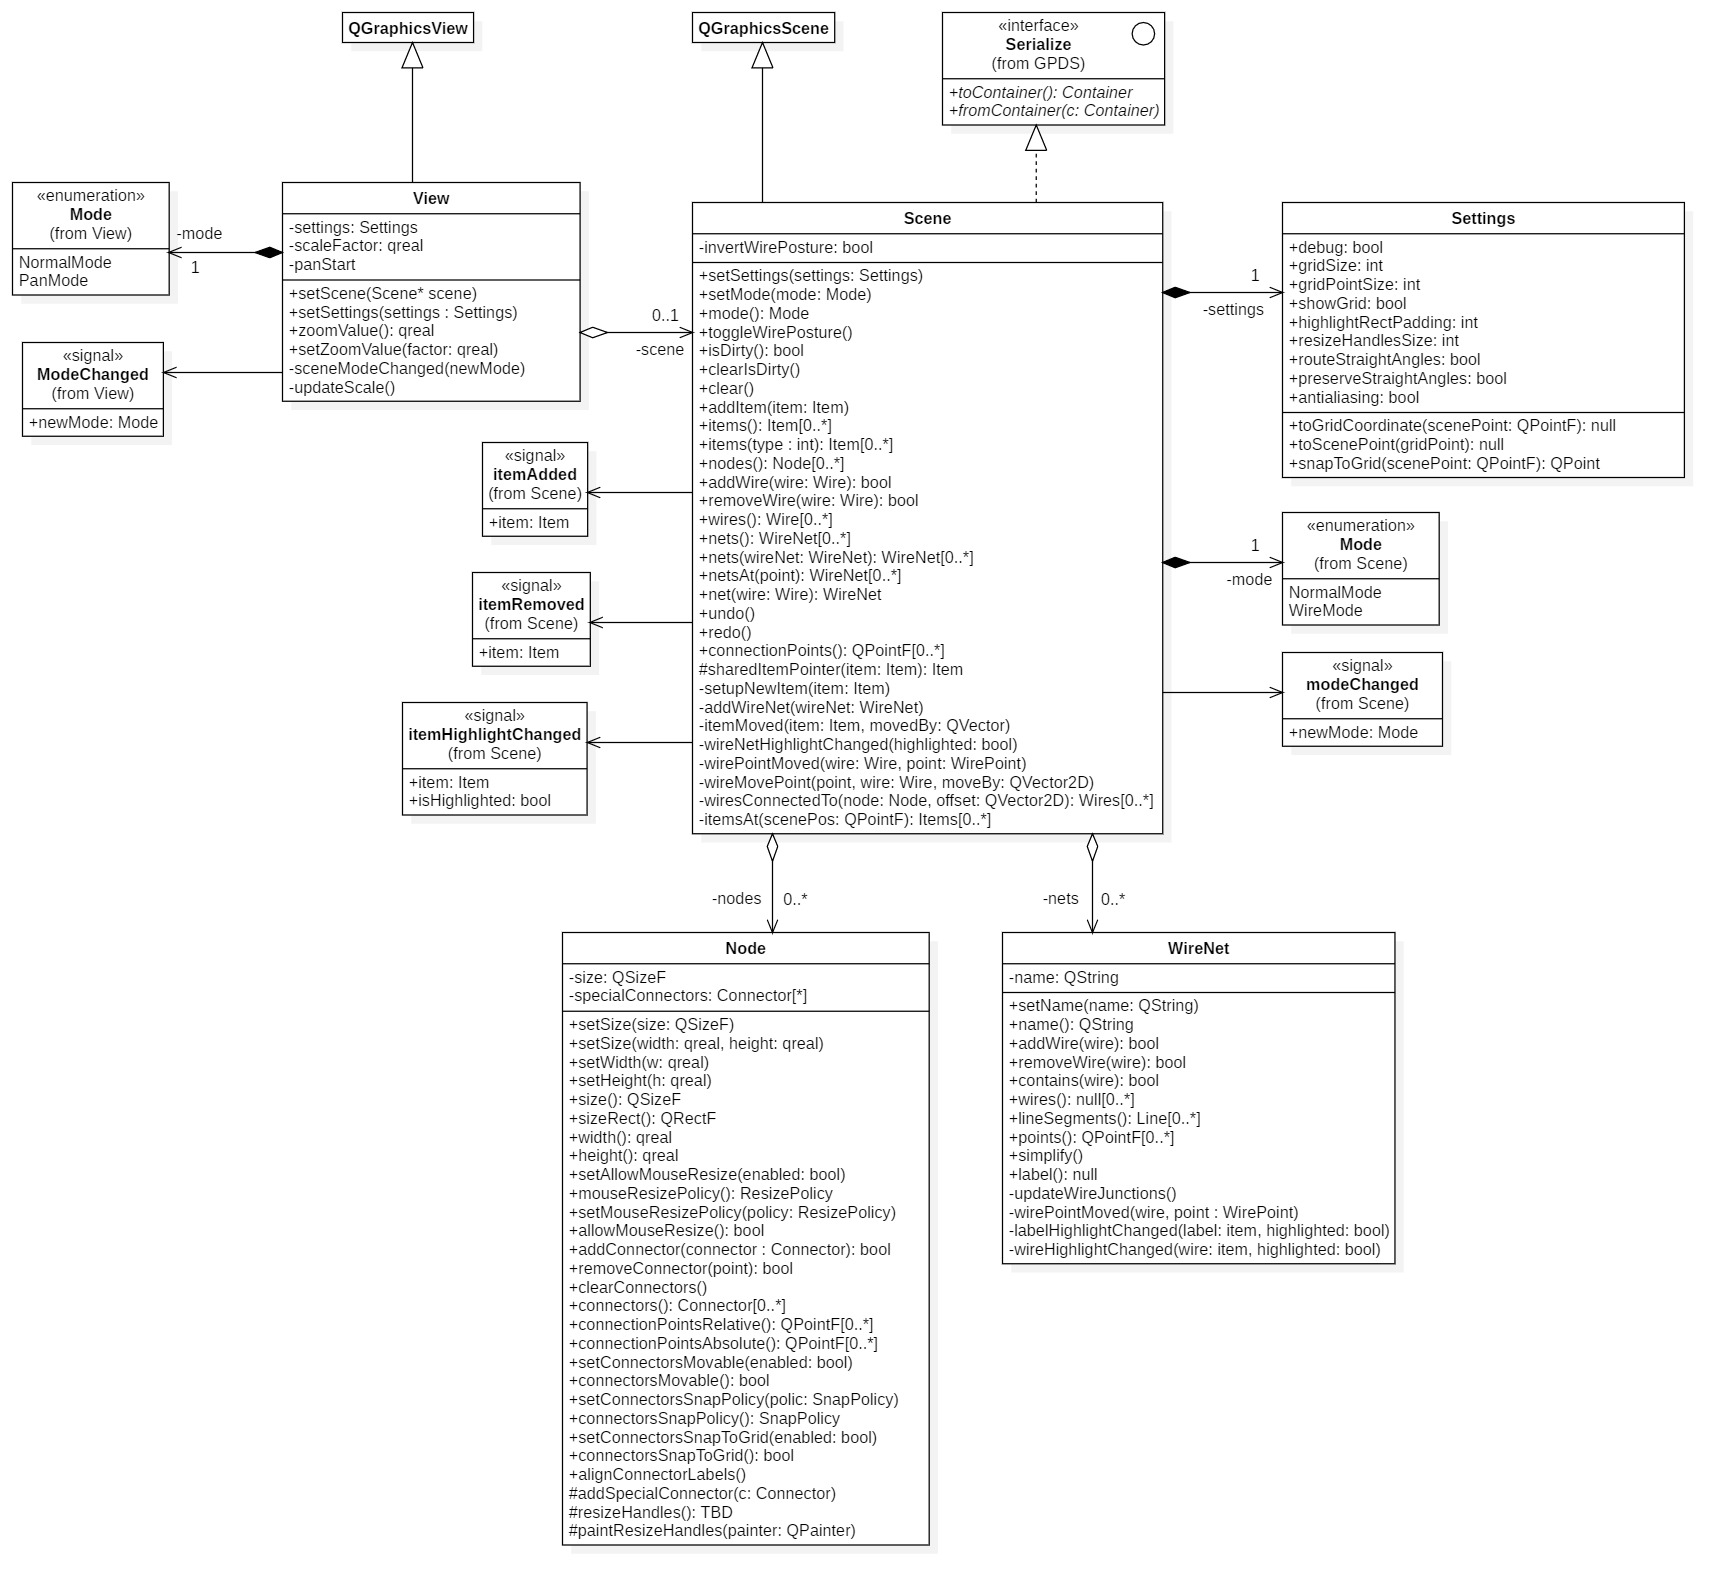
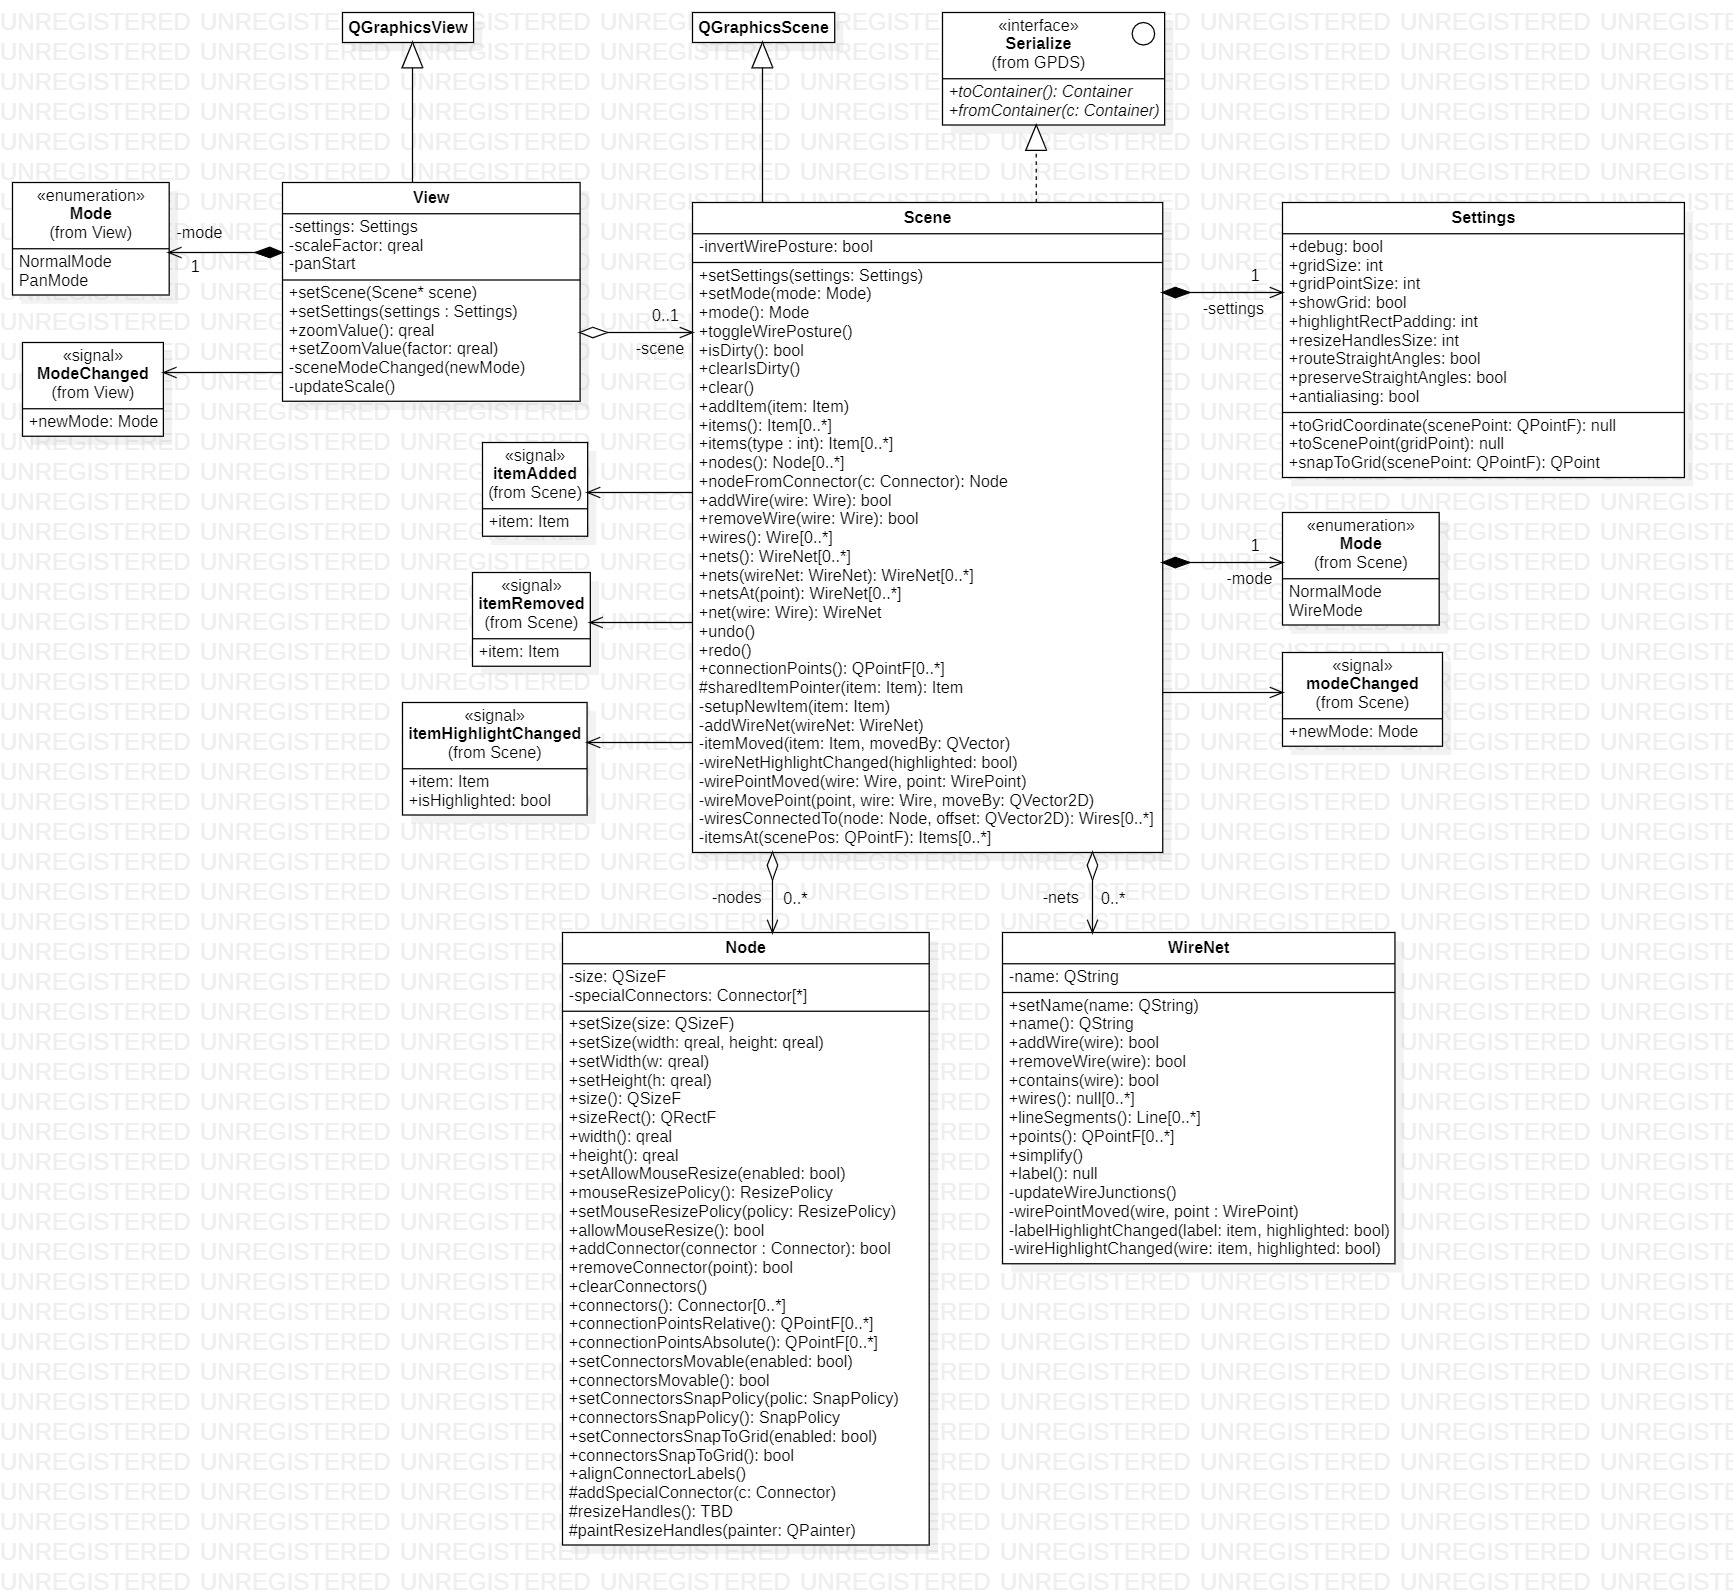
Add Scene::nodeFromConnector()

diff --git a/qschematic/scene.cpp b/qschematic/scene.cpp
@@ -436,6 +436,20 @@ QList<std::shared_ptr<Node>> Scene::nodes() const
     return nodes;
 }
 
+std::shared_ptr<Node> Scene::nodeFromConnector(const QSchematic::Connector& connector) const
+{
+    for (auto node : nodes()) {
+        const auto& connectors = node->connectors();
+        auto it = std::find_if(std::cbegin(connectors), std::cend(connectors), [&connector](const auto& c) {
+            return c.get() == &connector;
+        });
+        if (it != std::cend(connectors))
+            return node;
+    }
+
+    return nullptr;
+}
+
 bool Scene::addWire(const std::shared_ptr<Wire>& wire)
 {
     // Sanity check

diff --git a/qschematic/scene.h b/qschematic/scene.h
@@ -54,6 +54,7 @@ namespace QSchematic {
         std::vector<std::shared_ptr<Item>> selectedItems() const;
         std::vector<std::shared_ptr<Item>> selectedTopLevelItems() const;
         QList<std::shared_ptr<Node>> nodes() const;
+        std::shared_ptr<Node> nodeFromConnector(const Connector& connector) const;
         bool addWire(const std::shared_ptr<Wire>& wire);
         bool removeWire(const std::shared_ptr<Wire> wire);
         QList<std::shared_ptr<Wire>> wires() const;
